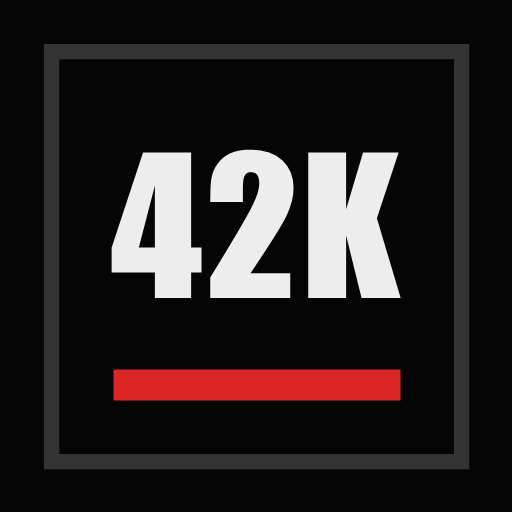
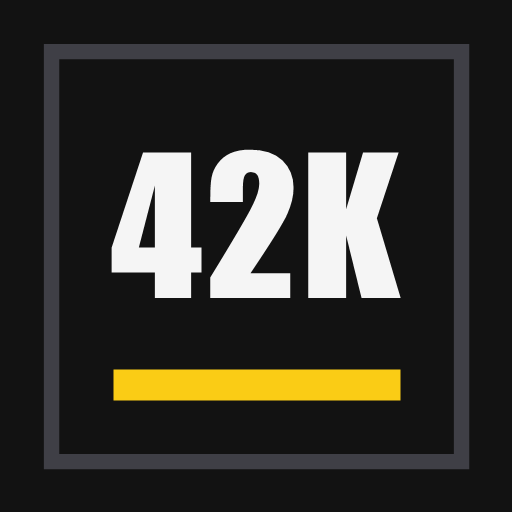
Add files via upload

Changed region(s): [[0.2188, 0.7188, 0.7812, 0.7812]]

diff --git a/index.html b/index.html
@@ -5,7 +5,7 @@
 <meta name="viewport" content="width=device-width, initial-scale=1, viewport-fit=cover">
 <title>Valdivia 42K</title>
 <meta name="description" content="Plan híbrido de 18 semanas (maratón + HYROX) hacia la Maratón de Valdivia, 21 de febrero de 2027.">
-<meta name="theme-color" content="#050505">
+<meta name="theme-color" content="#121212">
 <meta name="apple-mobile-web-app-capable" content="yes">
 <meta name="mobile-web-app-capable" content="yes">
 <meta name="apple-mobile-web-app-status-bar-style" content="black-translucent">
@@ -14,46 +14,46 @@
 <link rel="apple-touch-icon" href="apple-touch-icon.png">
 <link rel="preconnect" href="https://fonts.googleapis.com">
 <link rel="preconnect" href="https://fonts.gstatic.com" crossorigin>
-<link rel="stylesheet" href="https://fonts.googleapis.com/css2?family=JetBrains+Mono:ital,wght@0,400;0,500;0,700;1,400&family=Oswald:wght@500;600;700&display=swap">
+<link rel="stylesheet" href="https://fonts.googleapis.com/css2?family=IBM+Plex+Mono:wght@500&family=Inter:ital,wght@0,400;0,500;0,600;0,700;1,400&family=Space+Grotesk:wght@500;700&display=swap">
 <script src="https://cdn.tailwindcss.com/3.4.17"></script>
 <script>
   tailwind.config = {
     theme: { extend: {
       colors: { bg:'var(--bg)', surface:'var(--surface)', surface2:'var(--surface-2)', line:'var(--line)', fg:'var(--fg)', muted:'var(--muted)', run:'var(--run)', hx:'var(--hx)', ok:'var(--ok)', warn:'var(--warn)' },
-      fontFamily: { display:['Oswald','Arial Narrow','sans-serif'], body:['JetBrains Mono','ui-monospace','monospace'], mono:['JetBrains Mono','ui-monospace','monospace'] }
+      fontFamily: { display:['Space Grotesk','sans-serif'], body:['Inter','Helvetica Neue','sans-serif'], mono:['IBM Plex Mono','ui-monospace','monospace'] }
     } }
   };
 </script>
 <style>
-  /* Layout: columna única mobile-first (max 28rem). Brutalismo de garaje: negro puro, hueso, grises de hierro y un solo rojo.
-     Header con panel técnico, tarjetas tipo expediente impreso, cero radios, líneas gruesas. Tema oscuro único. */
+  /* Layout: columna única mobile-first (max 28rem). Brutalismo legible: off-black, hueso, grises claros y un solo amarillo industrial.
+     Títulos en Space Grotesk, lectura en Inter, monoespaciada solo para ritmos, códigos y cronómetros. Cero radios, líneas gruesas. */
   :root {
     color-scheme: dark;
-    --bg: #050505;          /* negro */
-    --surface: #0d0d0d;     /* hoja de trabajo */
-    --surface-2: #161616;
-    --line: #333333;        /* hierro */
-    --fg: #ededed;          /* hueso */
-    --muted: #8c8c8c;       /* asfalto */
-    --accent: #dc2626;      /* rojo sangre: solo datos clave */
+    --bg: #121212;          /* off-black: menos fatiga que el negro puro */
+    --surface: #1b1b1e;     /* hoja de trabajo */
+    --surface-2: #26262a;
+    --line: #3f3f46;        /* separa sin ensuciar */
+    --fg: #f5f5f5;          /* hueso */
+    --muted: #a3a3a3;       /* secundario legible (≈7:1 sobre el fondo) */
+    --accent: #facc15;      /* amarillo industrial: botones activos, maratón y datos clave */
     /* Alias que usa el JavaScript: todos caen en la paleta de arriba */
     --run: var(--fg); --hx: var(--fg); --ok: var(--fg); --warn: var(--accent); --gold: var(--accent);
     --frame: var(--fg); --frame-2: var(--line); --pink: var(--muted); --paper: var(--fg); --ink: var(--bg);
-    --font-display: 'Oswald', 'Arial Narrow', Impact, sans-serif;
-    --font-body: 'JetBrains Mono', ui-monospace, Menlo, Consolas, monospace;
-    --font-mono: 'JetBrains Mono', ui-monospace, Menlo, Consolas, monospace;
+    --font-display: 'Space Grotesk', 'Arial Black', system-ui, sans-serif;
+    --font-body: 'Inter', 'Helvetica Neue', Helvetica, Arial, system-ui, sans-serif;
+    --font-mono: 'IBM Plex Mono', ui-monospace, Menlo, Consolas, monospace;
   }
   *, *::before, *::after { border-radius: 0 !important; }
   html, body { background: var(--bg); color: var(--fg); }
-  body { margin: 0; font-family: var(--font-body); font-size: 14px; line-height: 1.55; -webkit-tap-highlight-color: transparent; -webkit-text-size-adjust: 100%; }
+  body { margin: 0; font-family: var(--font-body); font-size: 15px; line-height: 1.6; -webkit-tap-highlight-color: transparent; -webkit-text-size-adjust: 100%; -webkit-font-smoothing: antialiased; }
   [hidden] { display: none !important; }
   button { font: inherit; color: inherit; cursor: pointer; }
   :focus-visible { outline: 3px solid var(--accent); outline-offset: 2px; }
   h1, h2, h3 { text-wrap: balance; margin: 0; }
-  .font-display { font-family: var(--font-display); font-weight: 600; text-transform: uppercase; letter-spacing: .01em; }
+  .font-display { font-family: var(--font-display); font-weight: 700; text-transform: uppercase; letter-spacing: -.01em; }
   .font-mono { font-family: var(--font-mono); }
   .tnum { font-variant-numeric: tabular-nums; }
-  .eyebrow { font-family: var(--font-mono); font-size: 11px; font-weight: 700; letter-spacing: .12em; text-transform: uppercase; color: var(--muted); line-height: 1.5; }
+  .eyebrow { font-family: var(--font-body); font-size: 11.5px; font-weight: 700; letter-spacing: .12em; text-transform: uppercase; color: var(--muted); line-height: 1.5; }
   .eyebrow::before { content: '/// '; color: var(--accent); }
   .eyebrow.flex::before { content: none; }
   .eyebrow.flex > span:first-child::before { content: '/// '; color: var(--accent); }
@@ -63,22 +63,22 @@
 
   /* Header + panel técnico */
   .topbar { position: sticky; top: 0; z-index: 20; background: var(--bg); border-bottom: 3px solid var(--line); padding: calc(env(safe-area-inset-top, 0px) + 12px) 16px 12px; }
-  .topbar h1 { font-family: var(--font-display); font-weight: 700; font-size: 34px; line-height: .95; letter-spacing: .01em; }
-  .status { font-size: 12px; color: var(--muted); text-transform: uppercase; letter-spacing: .06em; margin-top: 6px; }
+  .topbar h1 { font-family: var(--font-display); font-weight: 700; font-size: 30px; line-height: 1; letter-spacing: -.02em; text-transform: uppercase; }
+  .status { font-size: 12.5px; color: var(--muted); margin-top: 6px; }
   .dbox { flex: none; text-align: center; border: 3px solid var(--accent); padding: 4px 10px 5px; min-width: 76px; }
-  .dbox b { display: block; font-family: var(--font-display); font-weight: 700; font-size: 34px; line-height: 1; color: var(--accent); font-variant-numeric: tabular-nums; }
+  .dbox b { display: block; font-family: var(--font-display); font-weight: 700; font-size: 32px; line-height: 1.05; color: var(--accent); font-variant-numeric: tabular-nums; }
   .dbox small { display: block; font-size: 10px; font-weight: 700; letter-spacing: .14em; color: var(--fg); }
   .hud { display: grid; grid-template-columns: 1.2fr 1.2fr .8fr; margin-top: 12px; border: 2px solid var(--line); }
   .hud > div { padding: 7px 9px 6px; min-width: 0; }
   .hud > div + div { border-left: 2px solid var(--line); }
-  .hud small { display: block; font-size: 9.5px; font-weight: 700; letter-spacing: .08em; line-height: 1.25; text-transform: uppercase; color: var(--muted); min-height: 2.5em; }
-  .hud b { display: block; font-family: var(--font-display); font-weight: 600; font-size: 24px; line-height: 1.1; font-variant-numeric: tabular-nums; }
-  .hud b span { font-family: var(--font-mono); font-size: 11px; font-weight: 700; color: var(--muted); margin-left: 4px; letter-spacing: .06em; }
+  .hud small { display: block; font-size: 10px; font-weight: 700; letter-spacing: .08em; line-height: 1.25; text-transform: uppercase; color: var(--muted); min-height: 2.5em; }
+  .hud b { display: block; font-family: var(--font-display); font-weight: 700; font-size: 24px; line-height: 1.1; font-variant-numeric: tabular-nums; }
+  .hud b span { font-family: var(--font-body); font-size: 11px; font-weight: 600; color: var(--muted); margin-left: 4px; letter-spacing: .06em; }
 
   /* Frase del día */
   .quote { border-left: 4px solid var(--accent); padding: 4px 0 4px 14px; }
-  .quote p { font-style: italic; font-size: 15px; line-height: 1.55; }
-  .quote cite { display: block; margin-top: 6px; font-style: normal; font-size: 11px; font-weight: 700; letter-spacing: .1em; text-transform: uppercase; color: var(--muted); }
+  .quote p { font-style: italic; font-size: 16.5px; line-height: 1.55; }
+  .quote cite { display: block; margin-top: 8px; font-style: normal; font-size: 11.5px; font-weight: 700; letter-spacing: .1em; text-transform: uppercase; color: var(--muted); }
 
   /* Tarjetas: expediente impreso */
   .card { background: var(--surface); border: 2px solid var(--line); padding: 16px; }
@@ -86,42 +86,41 @@
   .card.is-race { border: 3px solid var(--accent); }
   .card:focus-within { border-color: var(--accent); }
   .exp-h { display: flex; align-items: center; justify-content: space-between; gap: 8px; margin: -16px -16px 14px; padding: 8px 16px 7px; border-bottom: 2px dashed var(--line); }
-  .card.is-today > .exp-h, .card.is-race > .exp-h { margin: -16px -16px 14px; }
-  .exp-code { font-size: 11px; font-weight: 700; letter-spacing: .1em; color: var(--muted); white-space: nowrap; }
-  .chip { display: inline-flex; align-items: center; gap: 8px; font-size: 11px; font-weight: 700; letter-spacing: .1em; text-transform: uppercase; color: var(--c); line-height: 1.4; }
-  .badge { font-size: 10px; font-weight: 700; letter-spacing: .1em; text-transform: uppercase; padding: 3px 6px 2px; border: 2px solid currentColor; flex: none; }
+  .exp-code { font-family: var(--font-mono); font-size: 11.5px; font-weight: 500; letter-spacing: .06em; color: var(--muted); white-space: nowrap; }
+  .chip { display: inline-flex; align-items: center; gap: 8px; font-size: 11.5px; font-weight: 700; letter-spacing: .1em; text-transform: uppercase; color: var(--c); line-height: 1.4; }
+  .badge { font-size: 10.5px; font-weight: 700; letter-spacing: .08em; text-transform: uppercase; padding: 3px 6px 2px; border: 2px solid currentColor; flex: none; }
   .badge.ok { background: var(--fg); color: var(--bg); border-color: var(--fg); }
   .badge.skip { color: var(--muted); }
   .badge.miss { color: var(--accent); }
   .badge.moved { color: var(--accent); }
-  .meta { font-size: 12px; color: var(--muted); text-transform: uppercase; letter-spacing: .05em; margin-top: 4px; }
+  .meta { font-size: 12.5px; color: var(--muted); text-transform: uppercase; letter-spacing: .05em; margin-top: 4px; }
   .det { list-style: none; margin: 14px 0 0; padding: 0; display: grid; gap: 8px; }
-  .det li { position: relative; padding-left: 18px; font-size: 14px; }
+  .det li { position: relative; padding-left: 18px; font-size: 15px; line-height: 1.55; }
   .det li::before { content: '+'; position: absolute; left: 0; top: 0; font-weight: 700; color: var(--accent); }
-  .pace { font-family: var(--font-mono); font-weight: 700; color: var(--accent); white-space: nowrap; }
-  .pace-u { font-weight: 400; font-size: .85em; color: var(--muted); margin-left: 3px; }
-  .nota { margin-top: 12px; font-size: 13px; color: var(--accent); text-transform: uppercase; letter-spacing: .04em; }
+  .pace { font-family: var(--font-mono); font-weight: 500; color: var(--accent); white-space: nowrap; }
+  .pace-u { font-family: var(--font-body); font-weight: 500; font-size: .82em; color: var(--muted); margin-left: 3px; }
+  .nota { margin-top: 12px; font-size: 14px; font-weight: 600; color: var(--accent); }
   .nota::before { content: '!! '; font-weight: 700; }
-  .logbox { margin-top: 14px; padding: 10px 12px; background: var(--bg); border: 2px solid var(--line); border-left: 4px solid var(--fg); font-size: 13px; display: grid; gap: 4px; }
-  .logbox .kv { display: flex; flex-wrap: wrap; align-items: baseline; gap: 4px 14px; font-variant-numeric: tabular-nums; font-weight: 700; }
+  .logbox { margin-top: 14px; padding: 10px 12px; background: var(--bg); border: 2px solid var(--line); border-left: 4px solid var(--fg); font-size: 14px; display: grid; gap: 4px; }
+  .logbox .kv { display: flex; flex-wrap: wrap; align-items: baseline; gap: 4px 14px; font-family: var(--font-mono); font-weight: 500; font-variant-numeric: tabular-nums; }
 
   /* Botones y formularios */
-  .btn-primary { width: 100%; min-height: 58px; border: 0; background: var(--fg); color: var(--bg); font-family: var(--font-display); font-weight: 700; font-size: 19px; text-transform: uppercase; letter-spacing: .08em; }
-  .btn-primary:active { background: var(--accent); color: var(--fg); }
-  .btn { min-height: 46px; border: 2px solid var(--line); background: transparent; color: var(--fg); font-family: var(--font-mono); font-weight: 700; font-size: 12px; text-transform: uppercase; letter-spacing: .08em; padding: 0 12px; }
+  .btn-primary { width: 100%; min-height: 58px; border: 0; background: var(--fg); color: var(--bg); font-family: var(--font-display); font-weight: 700; font-size: 17px; text-transform: uppercase; letter-spacing: .04em; }
+  .btn-primary:active { background: var(--accent); color: var(--bg); }
+  .btn { min-height: 46px; border: 2px solid var(--line); background: transparent; color: var(--fg); font-family: var(--font-body); font-weight: 700; font-size: 12.5px; text-transform: uppercase; letter-spacing: .08em; padding: 0 12px; }
   .btn:active { background: var(--fg); color: var(--bg); border-color: var(--fg); }
   .btn.danger { color: var(--accent); border-color: var(--accent); }
   .btn.ghost { background: transparent; }
-  .field { display: grid; gap: 6px; font-size: 11px; font-weight: 700; letter-spacing: .08em; text-transform: uppercase; color: var(--muted); min-width: 0; }
-  .field input, .field textarea, .field select { width: 100%; box-sizing: border-box; background: var(--bg); border: 2px solid var(--line); padding: 10px 12px; font: 400 16px var(--font-mono); color: var(--fg); text-transform: none; letter-spacing: 0; }
-  .field input:focus, .field textarea:focus, .field select:focus { outline: none; border-color: var(--fg); }
+  .field { display: grid; gap: 6px; font-size: 11.5px; font-weight: 700; letter-spacing: .08em; text-transform: uppercase; color: var(--muted); min-width: 0; }
+  .field input, .field textarea, .field select { width: 100%; box-sizing: border-box; background: var(--bg); border: 2px solid var(--line); padding: 10px 12px; font: 400 16px var(--font-body); color: var(--fg); text-transform: none; letter-spacing: 0; }
+  .field input:focus, .field textarea:focus, .field select:focus { outline: none; border-color: var(--accent); }
   .seg { display: flex; flex-wrap: wrap; gap: 4px; }
-  .seg button { min-width: 40px; height: 40px; padding: 0 10px; border: 2px solid var(--line); background: transparent; font-size: 13px; font-weight: 700; text-transform: none; letter-spacing: 0; }
-  .seg button[aria-pressed="true"] { background: var(--fg); color: var(--bg); border-color: var(--fg); }
+  .seg button { min-width: 40px; height: 40px; padding: 0 10px; border: 2px solid var(--line); background: transparent; font-size: 14px; font-weight: 600; text-transform: none; letter-spacing: 0; }
+  .seg button[aria-pressed="true"] { background: var(--accent); color: var(--bg); border-color: var(--accent); }
 
   /* Bloque de 18 semanas */
   .strip { display: grid; grid-template-columns: repeat(18, 1fr); gap: 2px; }
-  .strip button { position: relative; height: 18px; border: 0; background: var(--seg); padding: 0; opacity: .4; }
+  .strip button { position: relative; height: 18px; border: 0; background: var(--seg); padding: 0; opacity: .55; }
   .strip button.is-past { opacity: 1; }
   .strip button.is-cur { opacity: 1; outline: 3px solid var(--accent); outline-offset: 1px; }
   .strip .hx-dot, .strip .race-dot { position: absolute; left: 50%; top: -9px; width: 5px; height: 5px; margin-left: -2.5px; }
@@ -132,7 +131,7 @@
   .week7 { display: grid; grid-template-columns: repeat(7, 1fr); gap: 3px; }
   .week7 button { border: 2px solid var(--line); background: var(--surface); padding: 6px 0 8px; display: grid; justify-items: center; gap: 4px; }
   .week7 button.is-today { border-color: var(--accent); }
-  .week7 .d { font-size: 10px; font-weight: 700; letter-spacing: .06em; text-transform: uppercase; color: var(--muted); }
+  .week7 .d { font-size: 10.5px; font-weight: 700; letter-spacing: .06em; text-transform: uppercase; color: var(--muted); }
   .week7 .marks { display: flex; gap: 3px; min-height: 7px; }
   .week7 .marks i { width: 7px; height: 7px; background: var(--c); }
   .week7 .marks i.hollow { background: transparent; box-shadow: inset 0 0 0 2px var(--c); }
@@ -144,16 +143,16 @@
   .wkchips button { flex: none; scroll-snap-align: center; border: 2px solid var(--line); background: var(--surface); padding: 6px 8px 4px; display: grid; justify-items: center; gap: 1px; min-width: 54px; }
   .wkchips button.on { background: var(--fg); color: var(--bg); border-color: var(--fg); }
   .wkchips button.cur:not(.on) { border-color: var(--accent); }
-  .wkchips b { font-family: var(--font-display); font-weight: 600; font-size: 17px; line-height: 1.1; }
-  .wkchips small { font-size: 10px; font-weight: 700; opacity: .75; font-variant-numeric: tabular-nums; }
+  .wkchips b { font-family: var(--font-display); font-weight: 700; font-size: 16px; line-height: 1.15; }
+  .wkchips small { font-size: 11px; font-weight: 600; opacity: .8; font-variant-numeric: tabular-nums; }
   .dayrow { display: grid; grid-template-columns: 48px 1fr; gap: 10px; padding: 10px 0; border-top: 2px solid var(--line); }
   .dayrow.is-today .dl b, .dayrow.is-today .dl span { color: var(--accent); }
   .dl { display: grid; justify-items: start; line-height: 1.1; }
-  .dl span { font-size: 10px; font-weight: 700; color: var(--muted); text-transform: uppercase; letter-spacing: .08em; }
-  .dl b { font-family: var(--font-display); font-weight: 600; font-size: 30px; font-variant-numeric: tabular-nums; }
+  .dl span { font-size: 10.5px; font-weight: 700; color: var(--muted); text-transform: uppercase; letter-spacing: .08em; }
+  .dl b { font-family: var(--font-display); font-weight: 700; font-size: 28px; font-variant-numeric: tabular-nums; }
   .item { width: 100%; display: flex; align-items: center; gap: 10px; text-align: left; border: 0; background: transparent; padding: 6px 0; min-height: 44px; }
-  .item .font-semibold { font-family: var(--font-display); font-weight: 500; font-size: 16px; text-transform: uppercase; letter-spacing: .02em; }
-  .st { flex: none; font-size: 10px; font-weight: 700; letter-spacing: .08em; text-transform: uppercase; }
+  .item .font-semibold { font-family: var(--font-body); font-weight: 600; font-size: 15px; }
+  .st { flex: none; font-size: 10.5px; font-weight: 700; letter-spacing: .08em; text-transform: uppercase; }
 
   /* Barra de carga */
   .bar { height: 14px; border: 2px solid var(--line); background: var(--bg); padding: 2px; box-sizing: border-box; }
@@ -162,20 +161,20 @@
   /* Tab bar */
   .tabbar { position: fixed; left: 0; right: 0; bottom: 0; z-index: 30; background: var(--bg); border-top: 3px solid var(--line); padding-bottom: env(safe-area-inset-bottom, 0px); }
   .tabbar > div { max-width: 28rem; margin: 0 auto; display: grid; grid-template-columns: repeat(4, 1fr); }
-  .tabbar button { border: 0; background: transparent; padding: 9px 0 8px; display: grid; justify-items: center; gap: 4px; font-family: var(--font-display); font-weight: 500; font-size: 12px; letter-spacing: .12em; text-transform: uppercase; color: var(--muted); }
+  .tabbar button { border: 0; background: transparent; padding: 9px 0 8px; display: grid; justify-items: center; gap: 4px; font-family: var(--font-body); font-weight: 700; font-size: 11px; letter-spacing: .1em; text-transform: uppercase; color: var(--muted); }
   .tabbar button[aria-current="page"] { color: var(--fg); box-shadow: inset 0 3px 0 var(--accent); }
   .tabbar svg { width: 22px; height: 22px; }
 
   /* Hoja modal */
   .sheet-wrap { position: fixed; inset: 0; z-index: 50; display: flex; align-items: flex-end; justify-content: center; }
-  .scrim { position: absolute; inset: 0; background: rgba(0, 0, 0, .82); }
+  .scrim { position: absolute; inset: 0; background: rgba(0, 0, 0, .78); }
   .sheet { position: relative; width: 100%; max-width: 28rem; box-sizing: border-box; max-height: 90vh; max-height: 90dvh; overflow-y: auto; overscroll-behavior: contain;
            background: var(--bg); border: 2px solid var(--line); border-top: 4px solid var(--fg); border-bottom: 0;
            padding: 8px 16px calc(env(safe-area-inset-bottom, 0px) + 20px); animation: up .14s ease-out; }
   .sheet .grab { width: 48px; height: 4px; background: var(--line); margin: 4px auto 14px; }
   @keyframes up { from { transform: translateY(20px); } to { transform: none; } }
-  .toast { position: fixed; left: 50%; transform: translateX(-50%); bottom: calc(env(safe-area-inset-bottom, 0px) + 84px); z-index: 60; background: var(--fg); color: var(--bg); padding: 10px 16px; font-family: var(--font-display); font-weight: 600; font-size: 15px; letter-spacing: .06em; text-transform: uppercase; max-width: calc(100% - 32px); text-align: center; }
-  .banner { margin: 12px 16px 0; padding: 10px 12px; border: 2px solid var(--accent); color: var(--accent); font-size: 13px; }
+  .toast { position: fixed; left: 50%; transform: translateX(-50%); bottom: calc(env(safe-area-inset-bottom, 0px) + 84px); z-index: 60; background: var(--fg); color: var(--bg); padding: 10px 16px; font-family: var(--font-body); font-weight: 700; font-size: 14px; max-width: calc(100% - 32px); text-align: center; }
+  .banner { margin: 12px 16px 0; padding: 10px 12px; border: 2px solid var(--accent); color: var(--accent); font-size: 14px; }
   @media (prefers-reduced-motion: reduce) { .sheet { animation: none; } }
   details > summary { list-style: none; cursor: pointer; }
   details > summary::-webkit-details-marker { display: none; }
@@ -184,13 +183,13 @@
   /* Nutrición */
   .nut { color: var(--accent); font-weight: 700; }
   .btn-nut { display: flex; align-items: center; justify-content: center; gap: 10px; border-color: var(--fg); }
-  .btn-nut .plus { color: var(--accent); font-size: 16px; }
+  .btn-nut .plus { color: var(--accent); font-size: 17px; }
   .ntag { border: 2px solid var(--line); background: var(--surface); padding: 7px 6px 6px; display: grid; gap: 2px; min-width: 0; }
-  .ntag b { font-family: var(--font-display); font-weight: 600; font-size: 26px; line-height: 1; color: var(--accent); }
-  .ntag small { font-size: 10px; font-weight: 700; letter-spacing: .04em; color: var(--muted); }
-  .chk { display: flex; gap: 10px; align-items: flex-start; padding: 9px 0; border-top: 2px solid var(--line); font-size: 13.5px; cursor: pointer; }
-  .chk input { appearance: none; -webkit-appearance: none; flex: none; width: 20px; height: 20px; margin: 1px 0 0; border: 2px solid var(--muted); background: transparent; }
-  .chk input:checked { background: var(--fg); border-color: var(--fg); box-shadow: inset 0 0 0 4px var(--bg); }
+  .ntag b { font-family: var(--font-display); font-weight: 700; font-size: 24px; line-height: 1.05; color: var(--accent); }
+  .ntag small { font-size: 11px; font-weight: 600; color: var(--muted); }
+  .chk { display: flex; gap: 10px; align-items: flex-start; padding: 9px 0; border-top: 2px solid var(--line); font-size: 14.5px; cursor: pointer; }
+  .chk input { appearance: none; -webkit-appearance: none; flex: none; width: 20px; height: 20px; margin: 2px 0 0; border: 2px solid var(--muted); background: transparent; }
+  .chk input:checked { background: var(--accent); border-color: var(--accent); box-shadow: inset 0 0 0 4px var(--bg); }
   .chk input:checked + span { color: var(--muted); text-decoration: line-through; }
 </style>
 </head>
@@ -199,7 +198,7 @@
   <header class="topbar" id="top"></header>
   <div class="banner" id="banner" hidden>No se pudo guardar en este navegador (modo privado o almacenamiento bloqueado). Exporta un respaldo desde Ajustes para no perder tus registros.</div>
   <main id="view" class="px-4 pt-4 pb-28">
-    <div style="border:3px solid #dc2626;padding:18px 16px;margin:24px 16px;color:#ededed;background:#0d0d0d;font:15px/1.5 ui-monospace,Menlo,monospace">
+    <div style="border:3px solid #facc15;padding:18px 16px;margin:24px 16px;color:#f5f5f5;background:#1b1b1e;font:15px/1.55 'Helvetica Neue',Helvetica,Arial,sans-serif">
       <p style="font-weight:700;font-size:18px;margin:0 0 8px">Valdivia 42K no puede abrirse así</p>
       <p style="margin:0 0 8px">Estás viendo el archivo en una vista previa (por ejemplo, desde la app Archivos del iPhone), que no ejecuta la app.</p>
       <p style="margin:0">Ábrela desde su dirección web en <b>Safari</b> y luego usa Compartir → Agregar a pantalla de inicio.</p>
@@ -582,7 +581,7 @@ const TYPE = {
   rest:  { label: 'Descanso',    c: 'var(--muted)' },
   mob:   { label: 'Movilidad',   c: 'var(--muted)' }
 };
-const PHASE_COLOR = { 'Base': '#2e2e2e', 'Construcción I': '#4a4a4a', 'Construcción II': '#6e6e6e', 'Específico': '#a6a6a6', 'Afinamiento': '#ededed' };
+const PHASE_COLOR = { 'Base': '#52525b', 'Construcción I': '#71717a', 'Construcción II': '#a1a1aa', 'Específico': '#d4d4d8', 'Afinamiento': '#f5f5f5' };
 
 /* Marcas geométricas por tipo: ■ carrera · + HYROX · ■ rojo prueba · □ descanso · ▬ movilidad */
 const MARKS = {
@@ -597,11 +596,17 @@ const mark = tipo => `<svg class="mk" viewBox="0 0 12 12" width="12" height="12"
 /* Frase del día: cambia cada día y se mantiene igual todo ese día. */
 const QUOTES = [
   { q: 'El impedimento a la acción hace avanzar la acción. Lo que se interpone en el camino se convierte en el camino.', a: 'Marco Aurelio', o: 'Meditaciones' },
-  { q: 'Al amanecer, cuando te cueste levantarte, piensa: me levanto para hacer el trabajo de un ser humano.', a: 'Marco Aurelio', o: 'Meditaciones' },
-  { q: 'Sufrimos más a menudo en la imaginación que en la realidad.', a: 'Séneca', o: 'Cartas a Lucilio' },
-  { q: 'No es que tengamos poco tiempo, sino que perdemos mucho.', a: 'Séneca', o: 'Sobre la brevedad de la vida' },
+  { q: 'No nos afecta lo que nos sucede, sino lo que pensamos sobre lo que nos sucede.', a: 'Epicteto', o: 'Enquiridión' },
+  { q: 'A veces, incluso vivir es un acto de coraje.', a: 'Séneca', o: 'Cartas a Lucilio' },
+  { q: 'Ningún hombre es libre si no es dueño de sí mismo.', a: 'Epicteto', o: 'Disertaciones' },
+  { q: 'La mejor venganza es ser diferente a quien te causó el daño.', a: 'Marco Aurelio', o: 'Meditaciones' },
+  { q: 'No hay viento favorable para el que no sabe a qué puerto se dirige.', a: 'Séneca', o: 'Cartas a Lucilio' },
+  { q: 'Primero di a ti mismo lo que serías; y luego haz lo que tienes que hacer.', a: 'Epicteto', o: 'Disertaciones' },
   { q: 'Amor fati: no querer que nada sea distinto, ni hacia adelante ni hacia atrás, por toda la eternidad.', a: 'Friedrich Nietzsche', o: 'Ecce Homo' },
-  { q: 'El esfuerzo mismo para llegar a la cima basta para llenar el corazón del hombre.', a: 'Albert Camus', o: 'El mito de Sísifo' }
+  { q: 'El esfuerzo mismo para llegar a la cima basta para llenar el corazón del hombre.', a: 'Albert Camus', o: 'El mito de Sísifo' },
+  { q: 'Cavas en tu interior. Dentro se halla la fuente del bien, capaz de brotar continuamente si no dejas de excavar.', a: 'Marco Aurelio', o: 'Meditaciones' },
+  { q: 'Nos asustamos más a menudo de lo que nos lastimamos; sufrimos más en la imaginación que en la realidad.', a: 'Séneca', o: 'Cartas a Lucilio' },
+  { q: 'La dificultad muestra de qué están hechos los hombres.', a: 'Epicteto', o: 'Disertaciones' }
 ];
 function quoteBlock(t) {
   const Q = QUOTES[((t % QUOTES.length) + QUOTES.length) % QUOTES.length];

diff --git a/sw.js b/sw.js
@@ -1,7 +1,7 @@
 // Service worker: deja la app disponible sin conexión.
 // - La app (HTML): primero la red, para ver siempre la última versión; sin señal, la copia guardada.
 // - Lo demás (íconos, fuentes, Tailwind): copia guardada al instante y actualización en segundo plano.
-const CACHE = 'valdivia42-v9';
+const CACHE = 'valdivia42-v10';
 const CORE = ['./', './index.html', './manifest.webmanifest', './icon-192.png', './icon-512.png', './apple-touch-icon.png'];
 
 self.addEventListener('install', e => {
